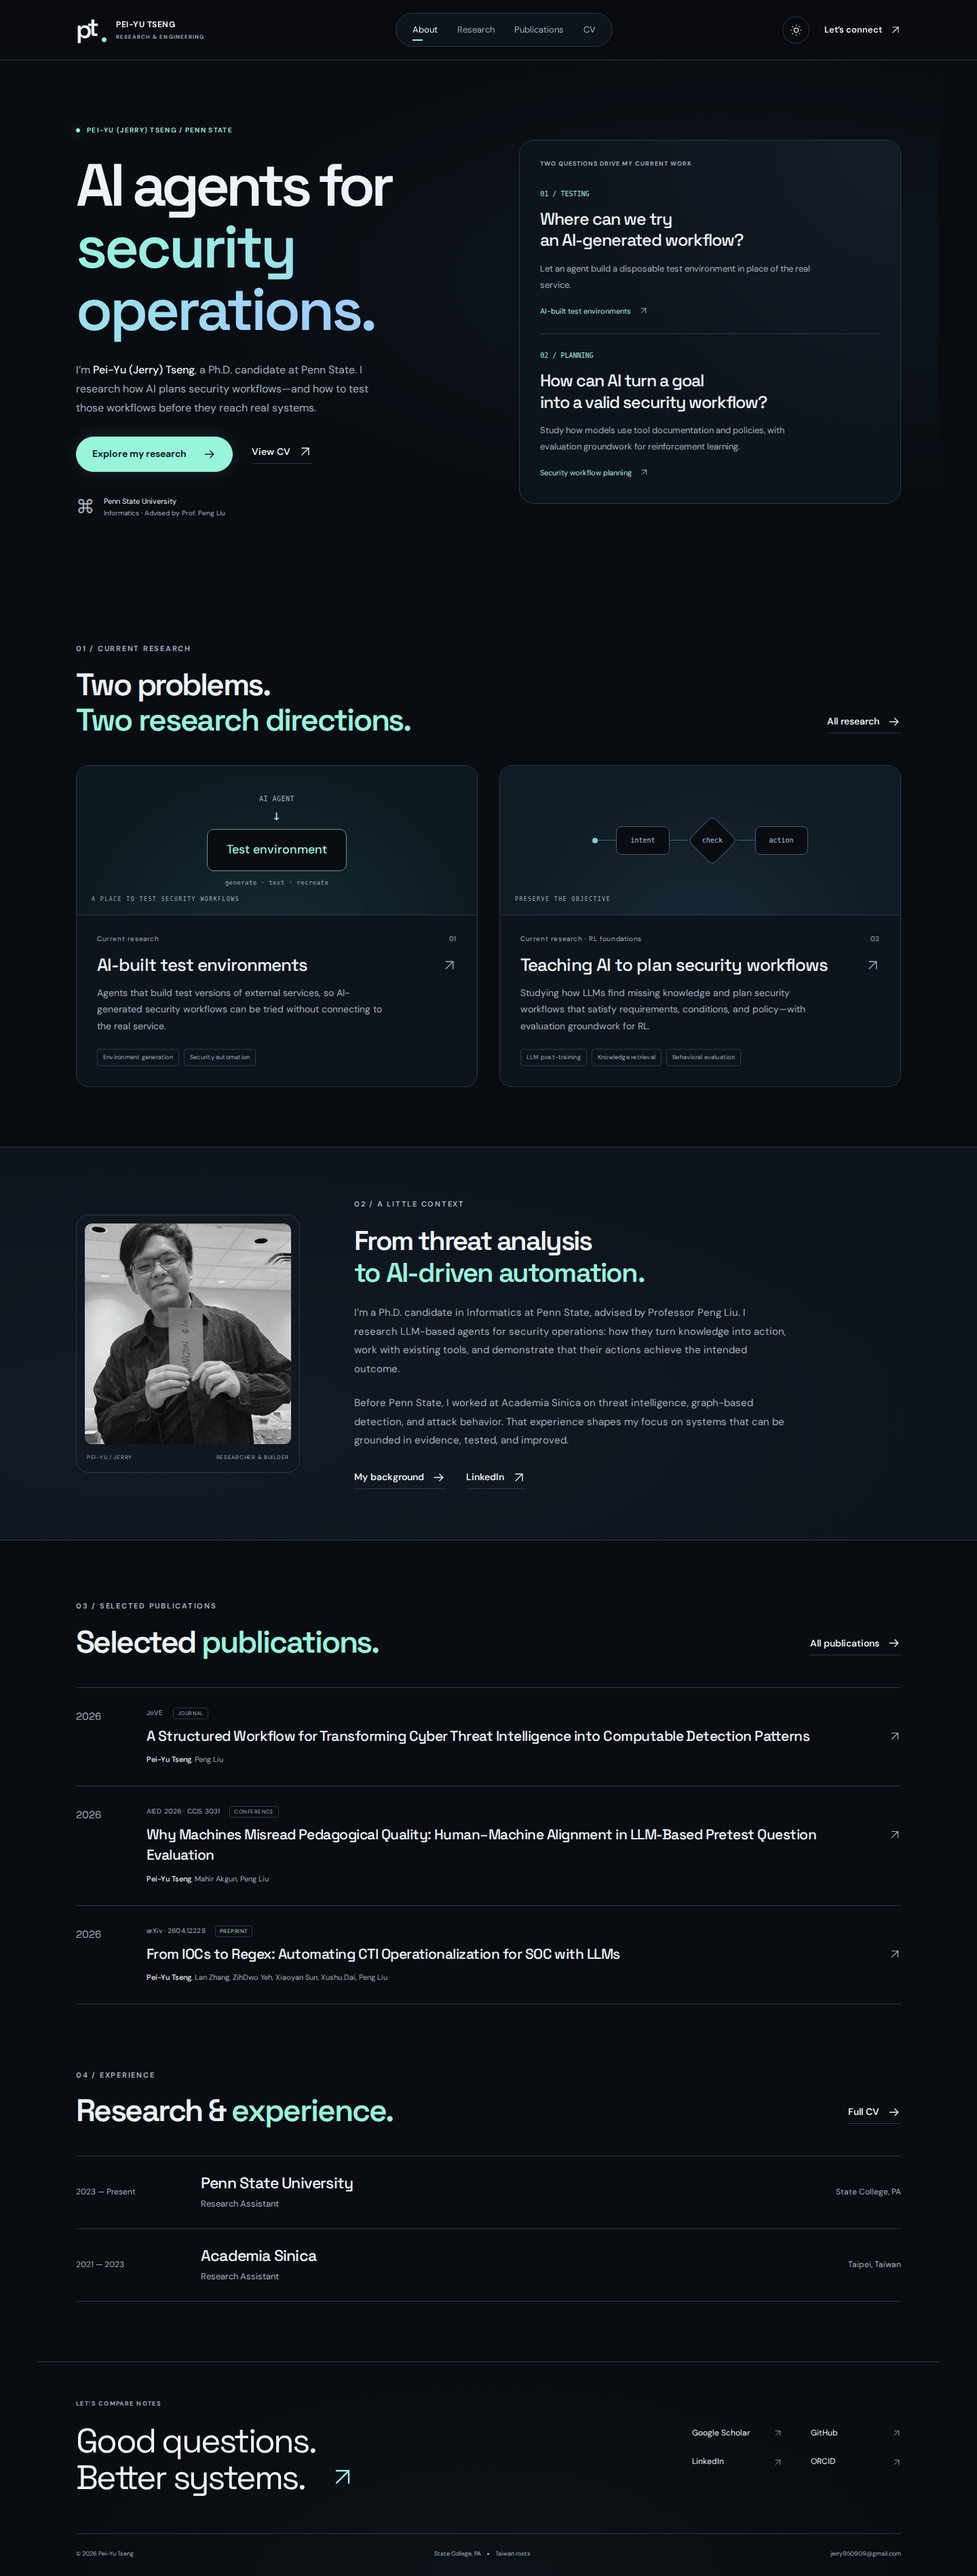
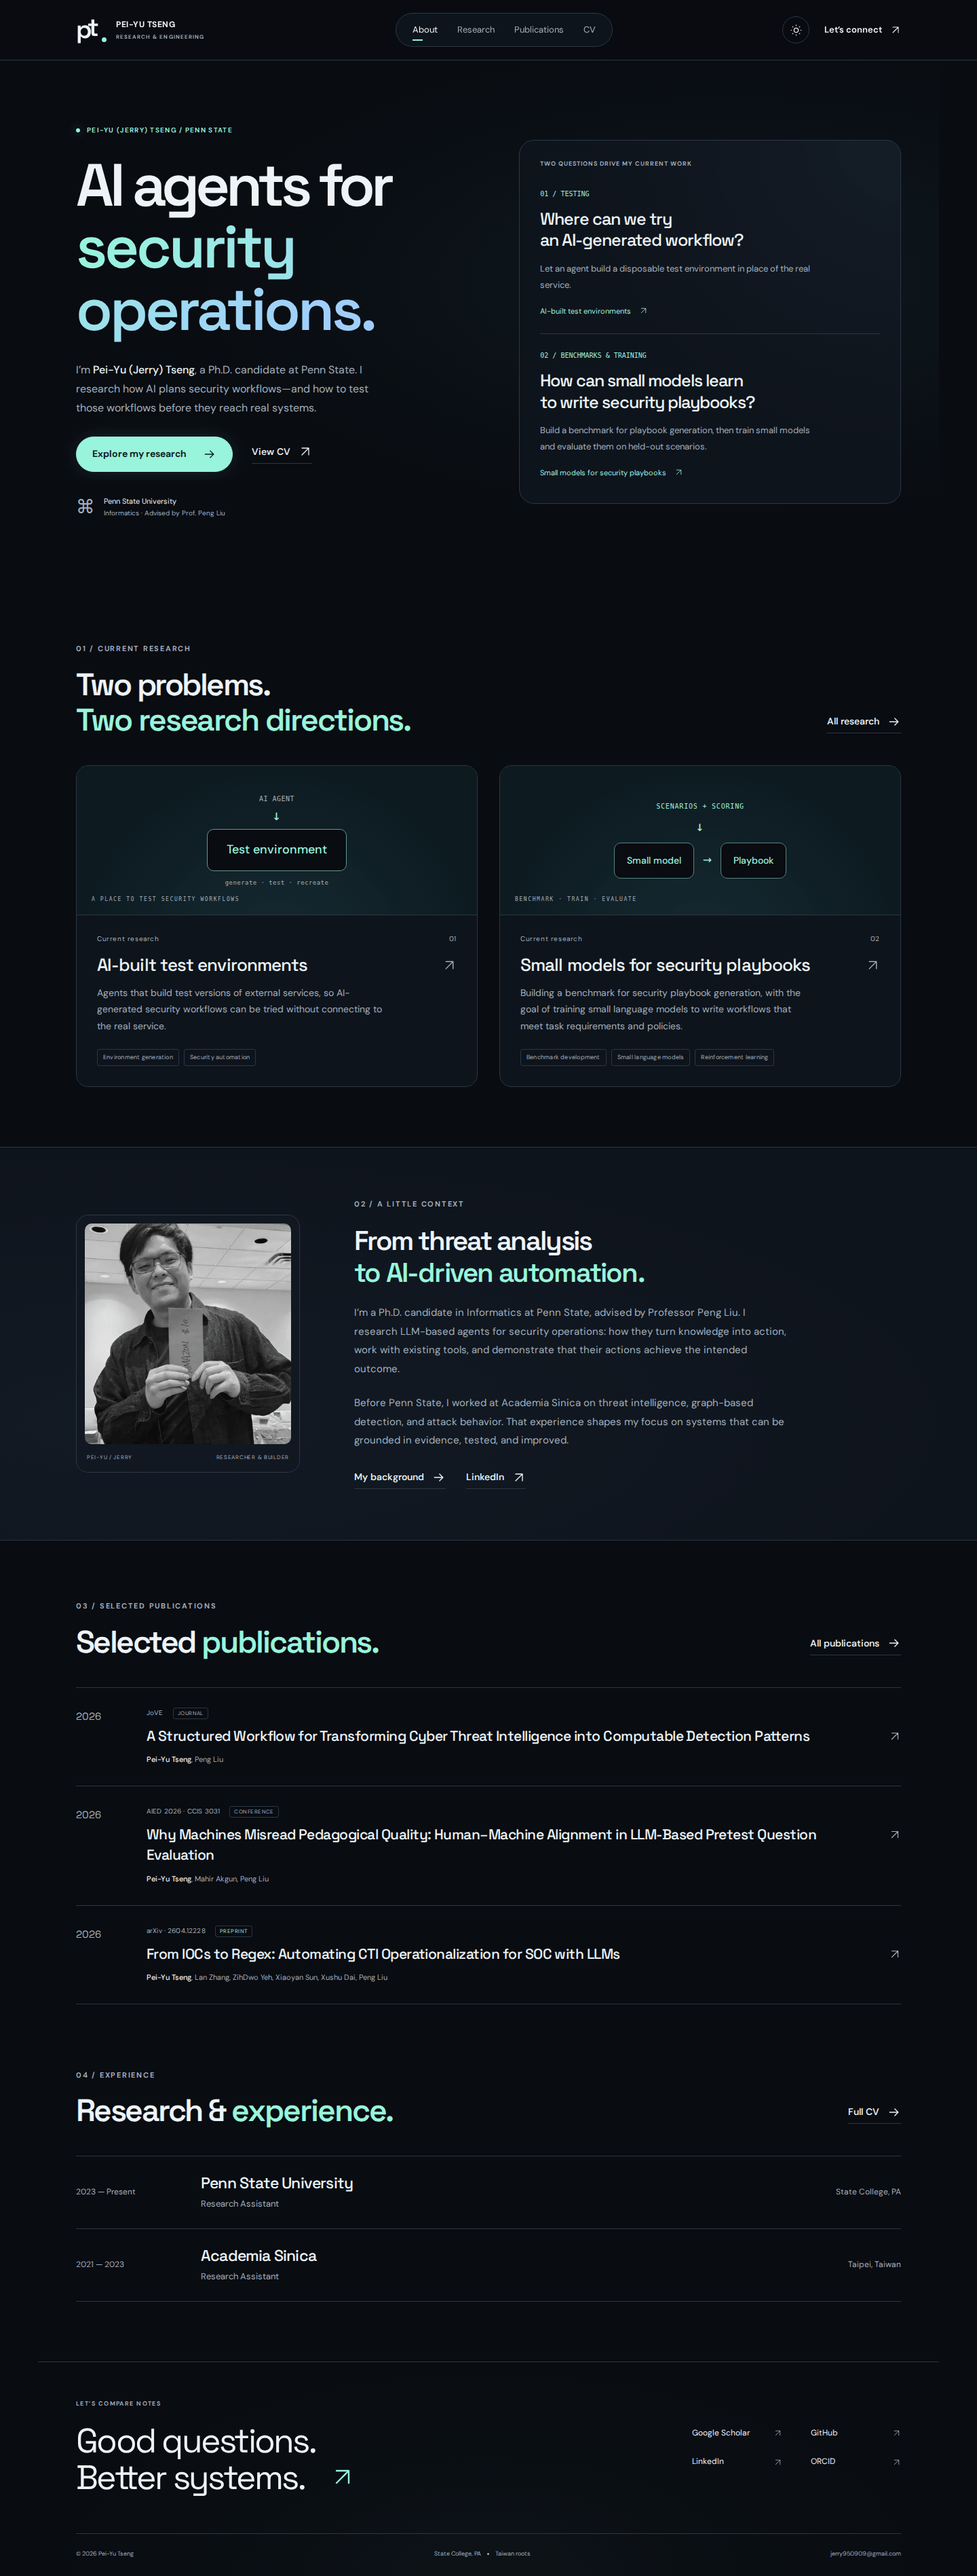
Clarify playbook benchmark and small-model training research

Changed region(s): [[0.5625, 0.1244, 0.7812, 0.1866], [0.5312, 0.3732, 0.8438, 0.4043], [0.625, 0.311, 0.8125, 0.3421]]

diff --git a/site/src/data/profile.ts b/site/src/data/profile.ts
@@ -33,19 +33,18 @@ export const projects = [
     related: [],
   },
   {
-    slug: 'soar-planning', number: '02', featured: true, kind: 'Current research · RL foundations', category: 'Agents & evaluation',
-    title: 'Teaching AI to plan security workflows', subtitle: 'Knowledge-grounded SOAR planning and reinforcement learning',
-    description: 'Studying how LLMs find missing knowledge and plan security workflows that satisfy requirements, conditions, and policy—with evaluation groundwork for RL.',
-    tags: ['LLM post-training', 'Knowledge retrieval', 'Behavioral evaluation'], visual: 'workflow',
-    question: 'Can a model turn a sparse security objective into a valid, policy-aware workflow?',
+    slug: 'soar-planning', number: '02', featured: true, kind: 'Current research', category: 'Agents & evaluation',
+    title: 'Small models for security playbooks', subtitle: 'Benchmarks and reinforcement learning for playbook generation',
+    description: 'Building a benchmark for security playbook generation, with the goal of training small language models to write workflows that meet task requirements and policies.',
+    tags: ['Benchmark development', 'Small language models', 'Reinforcement learning'], visual: 'benchmark',
+    question: 'What does it mean for a model to write a correct playbook?',
     body: [
-      'A security request rarely specifies every action, prerequisite, and approval rule. This research asks how an LLM can identify what it needs to know, retrieve relevant tool and policy documentation, and construct a SOAR workflow that satisfies the request.',
-      'I am developing tasks grounded in source playbooks, procedures, and policies, alongside a shared vocabulary for describing workflow behavior. The task design separates four kinds of information: flow structure, available actions, decision conditions, and policy constraints. Varying these independently helps distinguish planning from following a detailed recipe.',
-      'The current focus is minimal-information tasks: a concise goal and necessary case facts, with missing knowledge available through document search and reading. Evaluation describes situations, what must happen, and what must not happen. It allows different valid workflows instead of requiring a copy of one reference graph.',
-      'For example, when a source policy requires approval before blocking an address, a valid plan must obtain approval before the block and prevent that action when approval is denied. This calls for checking conditions and dependencies, not just whether an action name appears.',
-      'This work is building the data and evaluation foundation for LLM post-training, including reinforcement learning. Earlier supervised fine-tuning and inference baselines inform the investigation; the present phase focuses on task answerability, source coverage, and evaluation validity. Workflow-level checks and execution in a stateful SOAR environment remain separate forms of evidence.',
+      'A security playbook is an automated response workflow: it gathers information, makes decisions, and takes actions. The benchmark asks a model to generate that workflow from a short security objective and case facts, using available documentation to find the procedures, tools, and policies it needs.',
+      'I am constructing scenarios grounded in existing security playbooks and documentation, together with criteria for judging generated workflows. Each answer specifies the situation, what must happen, and what must not happen. Different workflows can be correct; copying one reference graph is not the goal.',
+      'For example, if approval is required before blocking an address, including both actions is not enough. Blocking must depend on approval and remain unreachable when approval is denied. The evaluator must detect missing work, incorrect branches, and bypassed prerequisites—not just valid output formatting.',
+      'The current phase is benchmark and evaluator development: reviewing source evidence, checking that tasks are answerable, and finding scoring gaps that let incorrect workflows pass. Evaluation currently covers platform-neutral playbook outlines; running a complete playbook against real service integrations is a separate step. Small-model generation training, including reinforcement learning, is the next research objective.',
     ],
-    approach: ['Ground task requirements and accessible knowledge in documented procedures and policies.', 'Vary flow, action, decision, and policy information independently.', 'Evaluate required and prohibited behavior while allowing alternative valid plans.'],
+    approach: ['Build source-grounded tasks and behavioral scoring for playbook generation.', 'Compare model baselines and train small models using separate training data.', 'Evaluate generalization on held-out scenario families.'],
     related: [],
   },
   {
@@ -57,7 +56,7 @@ export const projects = [
     body: [
       'Security automation starts with an objective, but implementation requires a sequence of tool calls, conditions, and dependencies. Generating plausible code is only part of the problem.',
       'I work on LLM-based systems for generating SOAR playbooks from high-level objectives. The work uses retrieval and contextual evidence to support generation, together with testing and iterative refinement.',
-      'This systems work connects the generation process with existing security tools and feedback from testing. It complements my research on stateful test environments and on the data and evaluation needed to study LLM planning.',
+      'This systems work connects the generation process with existing security tools and feedback from testing. It complements my research on generated test environments and on benchmarks and small-model training for playbook generation.',
     ],
     approach: ['Ground generation in relevant workflow and tool context.', 'Make dependencies and response requirements explicit.', 'Use test feedback to inspect and refine generated behavior.'],
     related: [],

diff --git a/site/tests/site.spec.ts b/site/tests/site.spec.ts
@@ -30,7 +30,7 @@ test('theme persists and current research links have clear destinations', async 
   await page.goBack();
   await page.locator('.research-focus').getByRole('link').last().click();
   await expect(page).toHaveURL(/projects\/soar-planning\/$/);
-  await expect(page.locator('.project-prose')).toContainText('foundation');
+  await expect(page.getByRole('heading', { level: 1 })).toHaveText('Small models for security playbooks');
 });
 
 test('research filters work and each project opens', async ({ page }) => {

diff --git a/docs/CONTENT_SOURCES.md b/docs/CONTENT_SOURCES.md
@@ -1,4 +1,4 @@
-# Portfolio content review — 2026-10-07
+# Portfolio content review — 2026-10-08
 
 ## Confirmed
 
@@ -27,14 +27,25 @@
     The disposable component is the generated external-service environment;
     the description retains real SOAR and connector execution and does not
     imply that the entire SOAR platform is replaced or that isolation is certified.
-  - Current SOAR planning/RL direction: `minimal_information_50_brief_20260928.md`,
-    `information_richness_protocol_v1.md`,
-    `shared_dictionary_draft_report_20260927.md`, and
-    `minimal_information_50_progress_20261006.md` support source-grounded task
-    construction, four information axes, and situation/required/prohibited
-    behavior evaluation. The task collection and vocabulary are in development.
-    `training/README.md` distinguishes earlier SFT from RL; current public copy
-    describes foundations for post-training, not completed RL training or gains.
+  - Current playbook benchmark and small-model training direction: the user's
+    October 8 correction confirms the overall objective is to build a test
+    set/benchmark and train small models to write playbooks. Benchmark construction
+    is the current phase, not the entire research objective.
+    `minimal_information_50_brief_20260928.md` (lines 59–88) supports sparse goals,
+    retrievable source knowledge, behavior-based answers, and held-out separation.
+    `minimal_information_50_semantic_gap_plan_20261009.md` (lines 7–18, 38–55)
+    supports platform-neutral outline generation and the current need to detect
+    omitted work, missing decision branches, and bypassed prerequisites. Formatting
+    is not the capability being measured. Valid alternative workflows are allowed.
+    `minimal_information_50_progress_20261008.md` (latest October 9 UTC entry,
+    October 8 in the user's timezone) confirms ongoing dataset/evaluator work;
+    the approximate 50-scenario goal is not a completed or released benchmark.
+    `training/README.md` describes historical SFT on approval/status evaluation,
+    not completed small-model playbook generation or RL training. Earlier model
+    comparisons are limited subtasks, not general generation benchmarks.
+    Public copy names both benchmark development and small-model generation
+    training, including RL, with explicit current/planned phases. It claims no
+    trained generator, RL gains, deployment savings, or native execution results.
 - The old website supplies the portrait, email, Scholar ID, GitHub, and ORCID.
 - Publication metadata was checked against primary sources:
   - [JoVE protocol article](https://www.jove.com/t/71144/a-structured-workflow-for-transforming-cyber-threat-intelligence-into).
@@ -66,13 +77,13 @@
 - Audience: research collaboration and industry opportunities, as selected by
   the user. English site content preserves the existing site's language.
 - No invented production deployment, leadership, impact, or training claims.
-- Pipeline1 and current SOAR planning/RL work lead the featured research.
+- Pipeline1 and current playbook benchmark/small-model work lead the featured research.
   Workflow generation remains a distinct project; earlier RL work on APT
   lateral movement remains labeled as research background.
 - IOCRegex-gen's numerical results appear only with their evaluation context
   and a link to the paper, not as personal productivity or production metrics.
 - The homepage now names the research field and describes two concrete questions:
-  where to test generated workflows, and how models plan valid workflows.
+  where to test generated workflows, and how small models learn to write playbooks.
   The abstract research sphere, research-loop controls, and repeated slogan strip
   were removed because they did not explain the work.
 - The environment project is presented publicly as **AI-built test environments**.

diff --git a/README.md b/README.md
@@ -31,6 +31,8 @@ npm run preview
 - `site/src/styles/global.css`: colors, typography, responsive and print styles.
 - `site/src/styles/tech.css`: dark technology theme, typography, and restrained light accents.
 - `site/src/components/ResearchFocus.astro`: the two current research questions on the homepage.
+- `site/src/components/PlaybookLearningRoadmap.astro`: current benchmark development
+  and planned small-model training and held-out evaluation.
 - `site/src/components/TestEnvironmentStudy.astro`: complete research story, from
   the problem and approach to contribution, status, and optional technical detail.
 - `site/src/components/ServiceComparison.astro`: illustrated service-replacement
